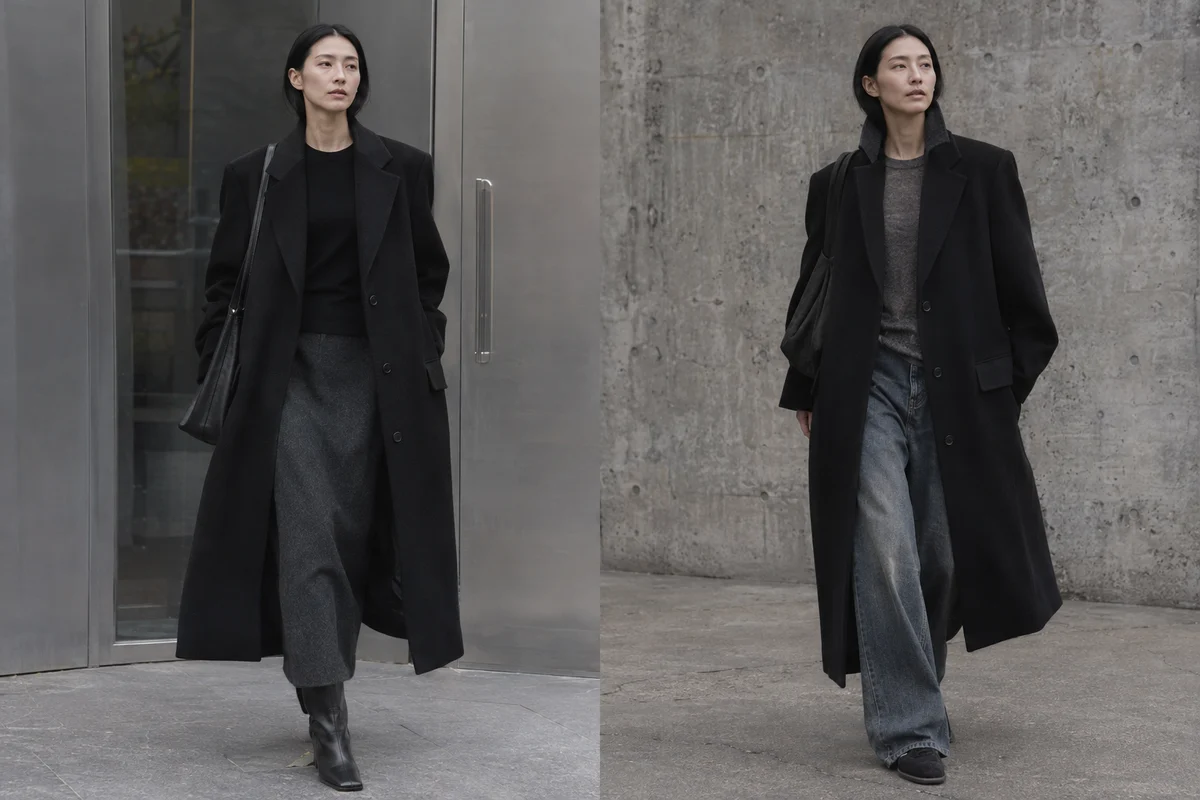
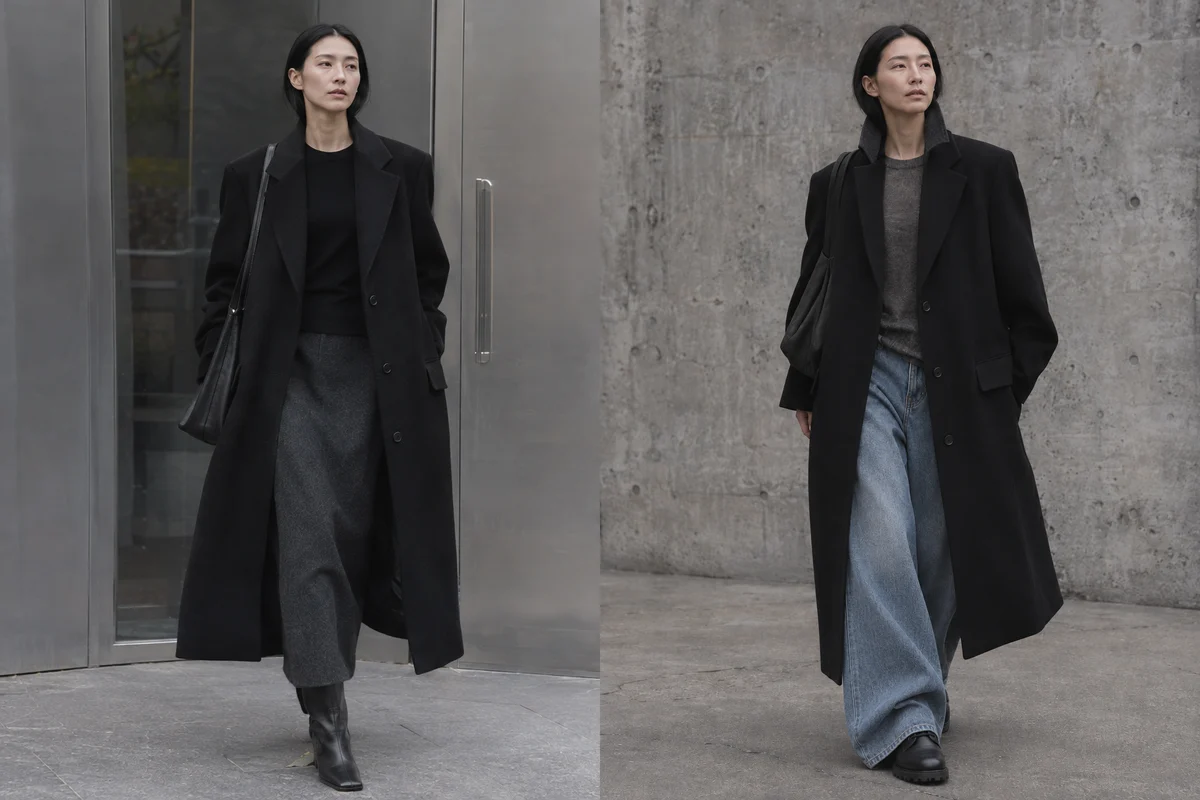
주말 코트를 긴 와이드 데님과 워커로 스타일링

Changed region(s): [[0.6783, 0.4375, 0.8633, 1.0]]

diff --git a/app/apply/page.tsx b/app/apply/page.tsx
@@ -2,6 +2,7 @@
 
 import { useState } from "react";
 import Image from "next/image";
+import coatSample from "@/public/lookbook/black-coat-two-looks.webp";
 import SiteHeader from "@/components/SiteHeader";
 import SiteFooter from "@/components/SiteFooter";
 import { track } from "@/lib/track";
@@ -144,7 +145,7 @@ export default function ApplyPage() {
               “출근할 때 입던 검정 코트, 토요일에는 어떻게 입죠?” 어깨선이 살아 있고 깃 안쪽에 배색이 들어간 싱글 롱코트로 두 벌을 입어 봤어요.
             </p>
             <figure style={{ margin: 0 }}>
-              <Image src="/lookbook/black-coat-two-looks.webp" alt="같은 검정 롱코트를 입은 두 착장. 왼쪽은 깃을 눕히고 차콜 롱스커트와 검정 부츠를, 오른쪽은 깃을 세우고 워시드 데님과 낮은 스니커즈를 매치했어요." width={1200} height={800} sizes="(max-width: 760px) calc(100vw - 40px), 720px" style={{ display: "block", width: "100%", height: "auto", borderRadius: "2px" }} />
+              <Image src={coatSample} alt="같은 검정 롱코트를 입은 두 착장. 왼쪽은 깃을 눕히고 차콜 롱스커트와 검정 부츠를, 오른쪽은 깃을 세우고 길게 떨어지는 연청 와이드 데님에 검정 레이스업 워커를 신었어요." sizes="(max-width: 760px) calc(100vw - 40px), 720px" style={{ display: "block", width: "100%", height: "auto", borderRadius: "2px" }} />
               <figcaption style={{ marginTop: "7px", fontSize: "12px", color: SUB }}>왼쪽은 출근룩, 오른쪽은 주말룩이에요. AI로 연출한 상담 예시 이미지입니다.</figcaption>
             </figure>
             <div style={{ display: "grid", gridTemplateColumns: "repeat(auto-fit, minmax(min(100%, 230px), 1fr))", gap: "14px 24px", marginTop: "18px" }}>
@@ -153,12 +154,12 @@ export default function ApplyPage() {
                 <p style={{ margin: "5px 0 0", fontSize: "15px", lineHeight: 1.75 }}>검정 니트에 차콜 일자 롱스커트와 검정 가죽 부츠를 신어요. 단추를 열고 깃을 눕히면 스커트와 부츠가 한 선으로 이어지고, 넓은 코트 안으로 가느다란 실루엣이 보여요.</p>
               </div>
               <div style={{ borderTop: `1px solid ${BDR}`, paddingTop: "10px" }}>
-                <h3 style={{ margin: 0, fontSize: "17px", fontWeight: 750 }}>주말룩 · 깃을 세우고, 데님은 길게</h3>
-                <p style={{ margin: "5px 0 0", fontSize: "15px", lineHeight: 1.75 }}>뒤쪽 깃만 살짝 세워 안쪽의 차콜 배색을 보여줘요. 회색 니트 아래로 물 빠진 청바지가 낮은 스니커즈의 발등에 한 번 접히면, 같은 코트의 각진 어깨도 한결 편안해 보여요.</p>
+                <h3 style={{ margin: 0, fontSize: "17px", fontWeight: 750 }}>주말룩 · 긴 연청 데님에 검정 워커</h3>
+                <p style={{ margin: "5px 0 0", fontSize: "15px", lineHeight: 1.75 }}>코트 뒤깃을 세우고 회색 니트에 빛이 바랜 와이드 데님을 입어요. 바짓단을 길게 내려 검정 워커의 끈을 살짝 덮으면, 걸을 때마다 둥근 가죽 앞코와 도톰한 밑창이 보여요.</p>
               </div>
             </div>
             <p style={{ margin: "14px 0 0", padding: "12px 14px", background: CARD, fontSize: "14px", lineHeight: 1.7 }}>
-              <strong>내 옷으로 해보기</strong> · 거울에서 두 걸음 물러나 평소 신는 부츠와 운동화를 번갈아 신어 보세요. 코트 아래로 스커트가 얼마나 보이는지, 청바지 밑단이 발등에 몇 번 접히는지 비교하면 내게 편한 길이를 찾기 쉬워요.
+              <strong>내 옷으로 해보기</strong> · 워커를 신은 채 거울 앞에서 한 걸음 내디뎌 보세요. 앞쪽 밑단이 발등에서 부드럽게 한 번 꺾이고, 뒤쪽은 바닥을 스치지 않을 정도면 좋아요.
             </p>
           </section>
         )}
